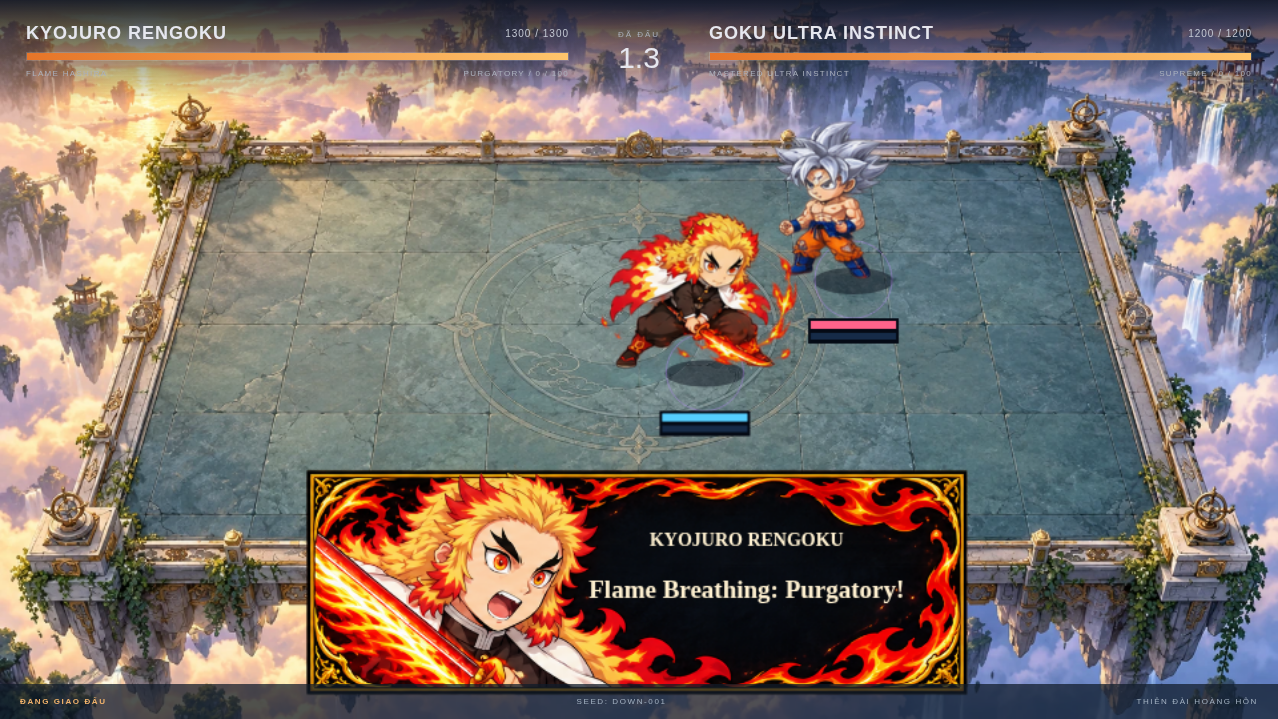
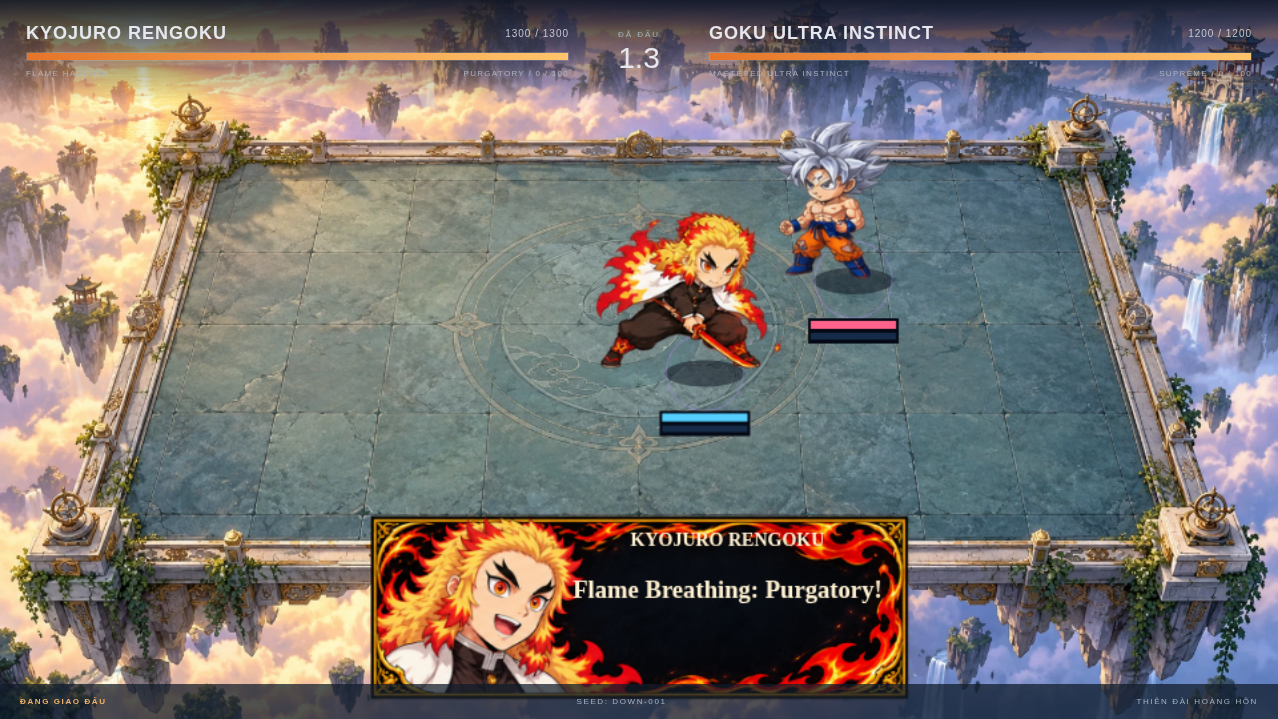
Shorten Rengoku Ultimate charge to match the new 1.44 second call

Changed region(s): [[0.2136, 0.6426, 0.7629, 0.9791], [0.4577, 0.2754, 0.6408, 0.5202]]

diff --git a/dist/index.html b/dist/index.html
@@ -1,4 +1,4 @@
-<!doctype html><html lang="vi"><head><meta charset="utf-8"><meta name="viewport" content="width=device-width,initial-scale=1"><title>Down Arena — Ichigo</title><link rel="stylesheet" href="style.css"></head><body class="mode-home"><div id="buildVersion" style="position:fixed;right:8px;bottom:8px;z-index:999;padding:6px 10px;background:#102736;color:#74e4ff;font:12px Arial;border:1px solid #32728a;border-radius:6px">BARYON RETREAT / TELEPORT</div><div id="bootNotice" role="status" style="position:fixed;top:8px;left:8px;right:8px;z-index:1000;padding:12px;background:#263448;color:#fff;font:13px Arial">Đang mở đấu trường… Nếu màn hình này không đổi, hãy tải tệp về và mở bằng Chrome hoặc Edge.</div><noscript><p style="padding:20px;background:#fff;color:#111">Game cần JavaScript. Bản xem nhanh: tải HTML và mở bằng Chrome hoặc Edge. Bản đầy đủ: chạy Start_Game.cmd rồi mở địa chỉ localhost được hiển thị.</p></noscript><script>window.showArenaError=function(message){var box=document.getElementById("bootNotice");if(box){box.style.display="block";box.style.background="#6c2c25";box.textContent="Không khởi tạo được game: "+message+". Hãy tải tệp về mở bằng Chrome/Edge, hoặc gửi dòng lỗi này để sửa.";}};window.addEventListener("error",function(e){window.showArenaError(e.message||"Lỗi tải nội dung");});</script><section id="modeHome" class="mode-home-screen" aria-labelledby="modeHomeTitle">
+<!doctype html><html lang="vi"><head><meta charset="utf-8"><meta name="viewport" content="width=device-width,initial-scale=1"><title>Down Arena — Ichigo</title><link rel="stylesheet" href="style.css"></head><body class="mode-home"><div id="buildVersion" style="position:fixed;right:8px;bottom:8px;z-index:999;padding:6px 10px;background:#102736;color:#74e4ff;font:12px Arial;border:1px solid #32728a;border-radius:6px">RENGOKU SHORT VOICE / 1.44s</div><div id="bootNotice" role="status" style="position:fixed;top:8px;left:8px;right:8px;z-index:1000;padding:12px;background:#263448;color:#fff;font:13px Arial">Đang mở đấu trường… Nếu màn hình này không đổi, hãy tải tệp về và mở bằng Chrome hoặc Edge.</div><noscript><p style="padding:20px;background:#fff;color:#111">Game cần JavaScript. Bản xem nhanh: tải HTML và mở bằng Chrome hoặc Edge. Bản đầy đủ: chạy Start_Game.cmd rồi mở địa chỉ localhost được hiển thị.</p></noscript><script>window.showArenaError=function(message){var box=document.getElementById("bootNotice");if(box){box.style.display="block";box.style.background="#6c2c25";box.textContent="Không khởi tạo được game: "+message+". Hãy tải tệp về mở bằng Chrome/Edge, hoặc gửi dòng lỗi này để sửa.";}};window.addEventListener("error",function(e){window.showArenaError(e.message||"Lỗi tải nội dung");});</script><section id="modeHome" class="mode-home-screen" aria-labelledby="modeHomeTitle">
 <div class="mode-home-content"><img class="arena-wordmark" src="assets/ui/titles/down_arena.webp" alt="Down Arena"><p class="eyebrow">DOWN ARENA · AUTO BATTLE</p><h1 id="modeHomeTitle">Chọn đấu trường<br><em>của bạn.</em></h1><p class="mode-home-copy">Tạo trận đấu, chinh phục giải đấu hoặc mở đấu trường Live liên tục.</p>
 <div id="modeChoices" class="mode-cards">
 <button id="chooseBattle" class="mode-card"><span class="mode-card-number">01 / BATTLE</span><strong>Đấu thường</strong><span>Tự chọn nhân vật, đấu đôi, tự do 2–5 người hoặc đấu đội tối đa 5vs5.</span><b>Thiết lập trận đấu →</b></button>

diff --git a/dist/src/audio.js b/dist/src/audio.js
@@ -3,7 +3,7 @@ import {ULTIMATE_CINEMATIC_STEPS,cinematicSteps} from './engine/ultimate-rules.j
 const CHARGES={flamedash:.18,risingsun:.38,flametiger:.62,furnace:1,dismantle:.4,cleave:.48,meromellow:.65,slavearrow:.6,gravitycrush:.55,twistingstorm:.65,strikeair:.65,beam:.65,final:.8,roar:.75,instantblue:.65,instinctbeam:.65,bigbang:.8,special:.8,light:.7,purple:.8,supernova:.8,destruction:.65,getsuga:.5,shuriken:.6,hakai:.6};
 const PROFILES={sukuna:[.75,1.3],boa_hancock:[1.18,1.15],tatsumaki:[.9,1.2],saber:[1.15,1.3],goku_ultra:[1.22,1.35],goku_blue:[1.12,1.2],beerus:[.68,.65],ichigo:[1.32,1.55],sung_jinwoo:[.82,1.15],broly:[.72,.75],yugi:[.78,.8]};
 const TEAM_SPEECH={naruto_v2:'kuramarasengan',rengoku:'purgatory',sukuna:'shrine',gojo:'void',goku_ultra:'supreme',sung_jinwoo:'arise',ichigo:'fullgetsuga',saber:'excalibur',tatsumaki:'cataclysm',boa_hancock:'judgment'};
-const SPEECH_ASSETS={kuramarasengan:'assets/audio/voices/naruto_v2_kcm_ja.mp3',finalimpact:'assets/audio/voices/naruto_v2_baryon_ja.mp3',narutotransform:'assets/audio/voices/naruto_v2_transform_ja.mp3',purgatory:'assets/audio/voices/rengoku_ultimate_ja.mp3',shrine:'assets/audio/voices/sukuna_ultimate_ja.mp3',void:'assets/audio/voices/gojo_ultimate_ja.mp3',victory:'assets/audio/voices/victory_en.mp3',cataclysm:'assets/audio/voices/tatsumaki_ultimate_ja.mp3',judgment:'assets/audio/voices/boa_hancock_ultimate_ja.mp3',excalibur:'assets/audio/voices/saber_ultimate_ja.mp3',supreme:'assets/audio/voices/goku_ultra_ultimate_ja_4s.ogg',fullgetsuga:'assets/audio/voices/ichigo_ultimate_ja.mp3',arise:'assets/audio/voices/jinwoo_ultimate_ja.mp3'};
+const SPEECH_ASSETS={kuramarasengan:'assets/audio/voices/naruto_v2_kcm_ja.mp3',finalimpact:'assets/audio/voices/naruto_v2_baryon_ja.mp3',narutotransform:'assets/audio/voices/naruto_v2_transform_ja.mp3',purgatory:'assets/audio/voices/rengoku_ultimate_short_ja.mp3',shrine:'assets/audio/voices/sukuna_ultimate_ja.mp3',void:'assets/audio/voices/gojo_ultimate_ja.mp3',victory:'assets/audio/voices/victory_en.mp3',cataclysm:'assets/audio/voices/tatsumaki_ultimate_ja.mp3',judgment:'assets/audio/voices/boa_hancock_ultimate_ja.mp3',excalibur:'assets/audio/voices/saber_ultimate_ja.mp3',supreme:'assets/audio/voices/goku_ultra_ultimate_ja_4s.ogg',fullgetsuga:'assets/audio/voices/ichigo_ultimate_ja.mp3',arise:'assets/audio/voices/jinwoo_ultimate_ja.mp3'};
 export class ArenaAudio {
  loadSpeech(kind){this.speechBuffers??={};this.speechLoading??={};if(this.speechLoading[kind]||this.speechBuffers[kind]||!this.ctx?.decodeAudioData||typeof window.fetch!=='function')return;const url=SPEECH_ASSETS[kind];if(!url)return;this.speechLoading[kind]=window.fetch(url).then(r=>{if(!r.ok)throw new Error('Voice unavailable');return r.arrayBuffer();}).then(b=>this.ctx.decodeAudioData(b)).then(buffer=>{this.speechBuffers[kind]=buffer;}).catch(()=>{});}
  stopSpeech(){const speech=this.speech;this.speech=null;if(!speech)return;try{speech.source.stop();}catch{}speech.source.disconnect();speech.gain.disconnect();}

diff --git a/dist/src/engine/rengoku-voice.js b/dist/src/engine/rengoku-voice.js
@@ -1,2 +1,2 @@
-export const RENGOKU_VOICE_STEPS=279;
-export const RENGOKU_VOICE_SECONDS=4.64;
+export const RENGOKU_VOICE_STEPS=87;
+export const RENGOKU_VOICE_SECONDS=1.44;

diff --git a/tools/qa_rengoku.py b/tools/qa_rengoku.py
@@ -8,14 +8,15 @@ OUTPUT=ROOT/'docs'/'rengoku-qa'
 OUTPUT.mkdir(parents=True,exist_ok=True)
 from playwright.sync_api import sync_playwright
 import json
+VOICE_SECONDS=json.loads((ROOT/'dist/assets/audio/voices/rengoku_ultimate_short_ja.json').read_text())['duration']
 with sync_playwright() as p:
  b=p.chromium.launch(executable_path=os.environ.get('CHROMIUM_PATH') or shutil.which('chromium'),headless=True,args=['--no-sandbox','--autoplay-policy=no-user-gesture-required'])
  page=b.new_page(viewport={'width':1600,'height':1000})
- page.add_init_script('''window.__rengokuSpeechStarts=[];const original=AudioBufferSourceNode.prototype.start;AudioBufferSourceNode.prototype.start=function(...args){if(this.buffer?.duration>4.5&&this.buffer.duration<4.7)window.__rengokuSpeechStarts.push({offset:args[1]||0,duration:this.buffer.duration});return original.apply(this,args);};''')
+ page.add_init_script('window.__rengokuVoiceDuration='+str(VOICE_SECONDS)+';'+'''window.__rengokuSpeechStarts=[];const original=AudioBufferSourceNode.prototype.start;AudioBufferSourceNode.prototype.start=function(...args){if(Math.abs((this.buffer?.duration||0)-window.__rengokuVoiceDuration)<.01)window.__rengokuSpeechStarts.push({offset:args[1]||0,duration:this.buffer.duration});return original.apply(this,args);};''')
  errors=[];failed=[]
  page.on('pageerror',lambda e:errors.append(str(e)))
  page.on('response',lambda r:failed.append([r.status,r.url]) if r.status>=400 else None)
- page.goto('http://127.0.0.1:8766/',wait_until='networkidle')
+ page.goto('http://127.0.0.1:8767/',wait_until='networkidle')
  page.evaluate('async()=>await window.arena.ready')
  print('Loaded',errors,flush=True)
  page.click('#chooseBattle')
@@ -30,7 +31,7 @@ with sync_playwright() as p:
  page.locator('#game').screenshot(path=str(OUTPUT/'battle.png'))
  page.evaluate("()=>{const d=window.arena.simulation;d.fighters.forEach(f=>{f.rage=0;f.think=999;f.state='idle'});d.fighters[0].rage=100;}")
  page.wait_for_function("window.arena.simulation.personalUltimate.cinematic?.kind==='purgatory'")
- page.wait_for_timeout(1800)
+ page.wait_for_timeout(250)
  page.locator('#game').screenshot(path=str(OUTPUT/'cinematic.png'))
  page.click('#start')
  elapsed=page.evaluate('window.arena.simulation.personalUltimate.cinematic.elapsed')
@@ -40,7 +41,7 @@ with sync_playwright() as p:
  page.wait_for_function("window.arena.simulation.personalUltimate.attack?.phase==='travel'",timeout=10000)
  page.locator('#game').screenshot(path=str(OUTPUT/'ultimate.png'))
  speech=page.evaluate('window.__rengokuSpeechStarts')
- assert len(speech)>=2 and speech[-1]['offset']>1,speech
+ assert len(speech)>=2 and speech[-1]['offset']>.1,speech
  print('Real MP3 decoded / playback / pause / resume',speech,flush=True)
  print('Battle / cinematic / ultimate verified',flush=True)
  page.click('#openModeMenu')

diff --git a/docs/RENGOKU.md b/docs/RENGOKU.md
@@ -9,7 +9,7 @@ Playable Kyojuro Rengoku uses the existing 2D simulation and all game modes.
 - Rising Scorching Sun: forward130-unit sword sweep (150 damage, brief12-tick root, knockback), cooldown9s.
 - Flame Tiger: projectile195 damage with80-unit splash for75 damage, cooldown12s. Team-safe; disappears if owner dies.
 - Burning Heart: below/equal35% HP, +10% outgoing damage and25% faster normal melee cooldown recovery. No invulnerability.
-- Purgatory: measured279-step cinematic,36-tick warning, then a36-tick dash along a fixed corridor; one hit per enemy,420× existing Ultimate multiplier2 before shared modifiers. Enemies can leave the corridor. Root prevents movement; death/petrification cancels. Queue and team Ultimate use existing systems.
+- Purgatory: measured87-step cinematic,36-tick warning, then a36-tick dash along a fixed corridor; one hit per enemy,420× existing Ultimate multiplier2 before shared modifiers. Enemies can leave the corridor. Root prevents movement; death/petrification cancels. Queue and team Ultimate use existing systems.
 
 ## Source and extraction
 
@@ -27,14 +27,16 @@ The actions sheet has row counts `[6,6,6,6,5,6,6,5]`; each other character/effec
 
 ## Recorded speech
 
-`dist/assets/audio/voices/rengoku_ultimate_ja.mp3` is the clean generated Brian/eleven_v3 Japanese recording: 炎の呼吸、奥義！玖ノ型、煉獄！ (Flame Breathing, secret technique! Ninth Form: Purgatory!). It is4.64s; `engine/rengoku-voice.js` supplies279 steps to both personal and team cinematics. Existing audio cache, mute, pause/resume, reset and music ducking apply. Generation metadata is alongside the MP3. Generation uses credit; setup and testing never require a new request.
+`dist/assets/audio/voices/rengoku_ultimate_short_ja.mp3` is the clean generated Brian/eleven_v3 Japanese recording: 煉獄！ (Purgatory!). It is1.44s; `engine/rengoku-voice.js` supplies87 steps to both personal and team cinematics. Existing audio cache, mute, pause/resume, reset and music ducking apply. Generation metadata is alongside the MP3. Generation uses credit; setup and testing never require a new request.
 
 ## Validation
 
 Run `node tests/rengoku-tests.mjs`, `node tests/audio-tests.mjs`, `node --experimental-vm-modules tests/ui-active-roster.mjs`, and the extraction verifier. The full `npm test` remains blocked by eight legacy reference-art dependencies; individually executed50 suites yielded42 pass and8 missing-art failures, recorded in `rengoku-test-results.json`. Assertions were not disabled.
 
-For real browser QA, start `python tools/serve_game.py`, install Playwright and Chromium if necessary, and run `python tools/qa_rengoku.py`. Optional `CHROMIUM_PATH` selects a system browser. The browser fixture forces Ultimate readiness to inspect its lifecycle and records screenshots/results under `docs/rengoku-qa`. It decodes and schedules the real4.64s MP3 and tests pause/resume. This is not a subjective listening review.
+For real browser QA, start `python tools/serve_game.py`, install Playwright and Chromium if necessary, and run `python tools/qa_rengoku.py`. Optional `CHROMIUM_PATH` selects a system browser. The browser fixture forces Ultimate readiness to inspect its lifecycle and records screenshots/results under `docs/rengoku-qa`. It decodes and schedules the real1.44s MP3 and tests pause/resume. This is not a subjective listening review.
 
 ## R2 archive
 
 `Archive Rengoku assets to R2` uses existing GitHub Secrets. It stores versioned sheets, runtime assets, contact images, extraction report and clean voice, verifies downloaded bytes, and commits a receipt at `docs/rengoku-r2-archive.json`. Existing bucket objects and repository sources are not removed. No credential belongs in source or frontend. The game continues loading its runtime assets from GitHub Pages, so it needs no R2 public access or CORS change.
+
+Short-call update: the previous4.64s recording and metadata remain available as source history, while the game plays the new1.44s file. Warning/travel durations are unchanged. No accelerated or abruptly truncated audio is used.

diff --git a/PROJECT_HANDOFF.md b/PROJECT_HANDOFF.md
@@ -1,3 +1,7 @@
+## Rengoku short Ultimate voice — 2026-10-22 (latest)
+
+Replaced active speech with a newly generated Brian/eleven_v3 Japanese call, 煉獄！, in rengoku_ultimate_short_ja.mp3. Measured1.44s,87 ticks, replacing the active4.64s/279-tick charge. The common timing module controls both personal and team Ultimate cinematics. Warning/dash/damage unchanged. Previous full voice and metadata retained for history. New short metadata is beside its MP3. No paid retries. Tests verify personal/team release at87 ticks, frozen combat and audio lifecycle. Browser QA rerun with the real shorter recording.
+
 ## Baryon retreats before transforming — 2026-10-22 (latest)
 
 Before the low-HP Baryon cinematic, Naruto samples in-bounds points with a32×arena-scale inset and selects the largest clearance from all other living fighters, including teammates. Ties favor shorter travel; an already clearer current position is retained. Teleport occurs before v2TransformStart and uses the departure/arrival smoke and label. Root delays transformation until movement is allowed. HP, rage buffs, voice duration and whole-simulation cinematic freeze are unchanged. Only one teleport per transformation. No RNG consumed. Tested horizontal/portrait arenas at scales1,2,4, bounds, frame ordering, no repeat and root delay; real browser screenshot/report in docs/naruto-v2-qa/baryon-retreat.*.

diff --git a/README.md b/README.md
@@ -29,7 +29,7 @@ Chọn **Live → Bình chọn đối thủ → Bắt đầu Live Arena** để 
 
 ## Rengoku — 9 nhân vật
 
-Chọn **Kyojuro Rengoku** trong đấu đơn, FFA, đội, giải đấu hoặc Live Arena. Có 3 kỹ năng kiếm lửa, nội tại Burning Heart khi HP ≤35%, Ultimate Purgatory và lời tung chiêu tiếng Nhật 4,64 giây. Nếu còn bản cũ, tải lại trang bằng Ctrl+F5; góc màn hình phải hiện **RENGOKU / 9 CHARACTERS**.
+Chọn **Kyojuro Rengoku** trong đấu đơn, FFA, đội, giải đấu hoặc Live Arena. Có 3 kỹ năng kiếm lửa, nội tại Burning Heart khi HP ≤35%, Ultimate Purgatory và câu hô ngắn “煉獄！” dài1,44 giây. Nếu còn bản cũ, tải lại trang bằng Ctrl+F5; góc màn hình phải hiện **RENGOKU SHORT VOICE / 1.44s**.
 
 - 5 sheet nguồn được tách thành 122 frame; atlas có padding 32 px và metadata riêng cho hàng 5/6 frame.
 - Kiểm tra: Rengoku, UI, âm thanh, Live và trình duyệt Chromium thực tế đã qua. Kết quả tổng: 42/50 bộ qua; 8 bộ cũ vẫn thiếu tài nguyên đối chiếu trong `art`, giống trước thay đổi này.
